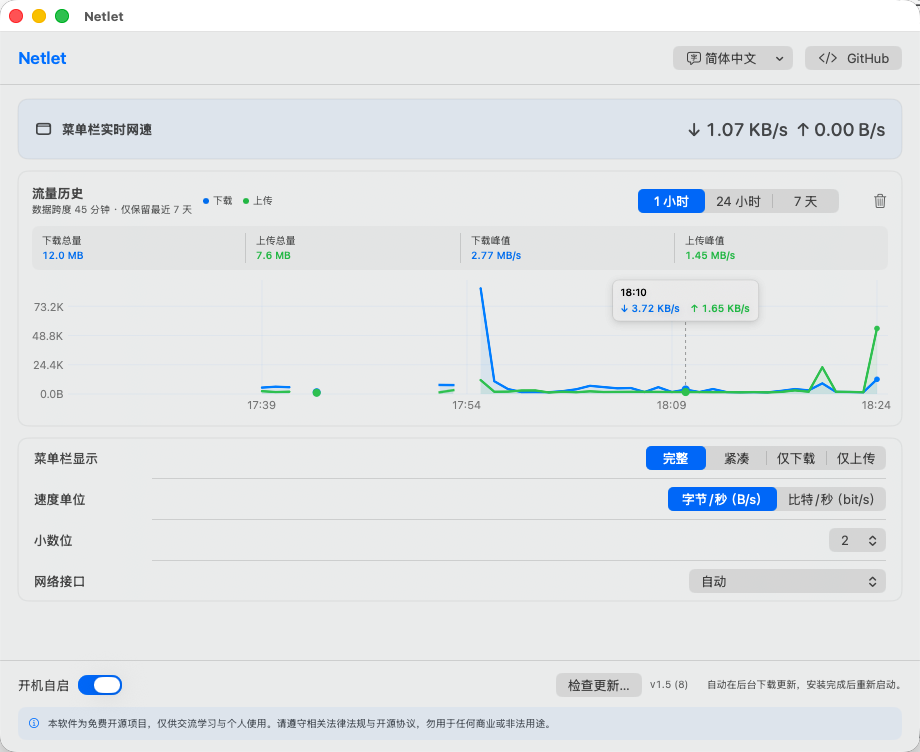
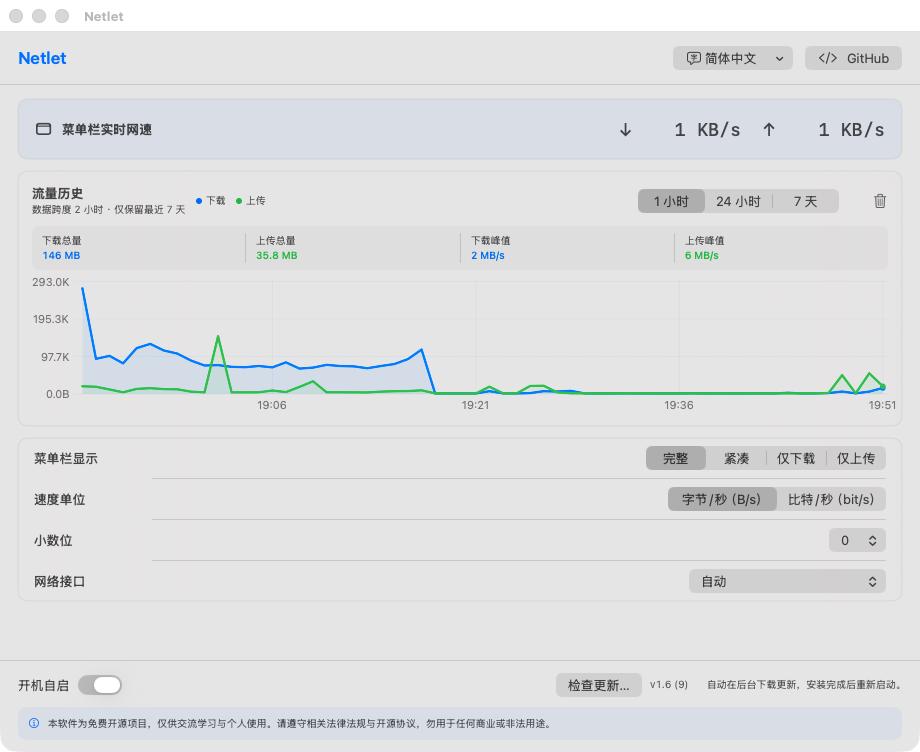
Stabilize Netlet menu bar layout

diff --git a/docs/index.html b/docs/index.html
@@ -10,8 +10,8 @@
   <meta property="og:description" content="在菜单栏查看实时网速与最近 1 小时趋势，在主界面回看最近 7 天流量。">
   <meta property="og:image" content="assets/app-icon.png">
   <title>Netlet — 实时网速，一眼即知</title>
-  <link rel="icon" href="assets/app-icon.png?v=1.5" type="image/png">
-  <link rel="apple-touch-icon" href="assets/app-icon.png?v=1.5">
+  <link rel="icon" href="assets/app-icon.png?v=1.6" type="image/png">
+  <link rel="apple-touch-icon" href="assets/app-icon.png?v=1.6">
   <link rel="stylesheet" href="styles.css">
 </head>
 <body>
@@ -35,11 +35,11 @@
         <h1 id="hero-title">实时网速，<br><em>一眼即知。</em></h1>
         <p class="hero-lead">在菜单栏直接查看上传与下载速度，随手回看最近 1 小时趋势；主界面保留最近 7 天历史。简单、轻量、完全本地运行。</p>
         <div class="hero-actions">
-          <a class="button button-primary" href="https://github.com/hjingsuper/Netlet/releases/download/v1.5/Netlet-v1.5-Apple-Silicon.dmg">下载 Apple 芯片版</a>
+          <a class="button button-primary" href="https://github.com/hjingsuper/Netlet/releases/download/v1.6/Netlet-v1.6-Apple-Silicon.dmg">下载 Apple 芯片版</a>
           <a class="button button-secondary" href="https://github.com/hjingsuper/Netlet">查看源代码</a>
         </div>
         <div class="hero-meta" aria-label="版本与系统要求">
-          <span>v1.5</span>
+          <span>v1.6</span>
           <span>macOS 14+</span>
           <span>Apple Silicon</span>
           <span>免费开源</span>
@@ -83,7 +83,7 @@
           <div class="feature-copy">
             <span class="feature-index">01</span>
             <h3>下载与上传，每秒可见</h3>
-            <p>直接留在菜单栏，不需要打开窗口。完整、紧凑、仅下载、仅上传四种显示方式，按你的桌面空间选择。</p>
+            <p>直接留在菜单栏，不需要打开窗口。完整、紧凑、仅下载、仅上传四种显示方式；固定宽度与对齐槽位让数值更新时不再左右跳动。</p>
           </div>
           <div class="traffic-visual" aria-hidden="true">
             <div class="traffic-label download"><span>↓</span><strong>3.01</strong><small>KB/s</small></div>
@@ -144,7 +144,7 @@
         <p>原生 SwiftUI 界面，把实时速度、历史趋势和显示设置放在一个窗口里。调整单位、样式或网络接口后，变化立即同步到菜单栏。</p>
       </div>
       <figure class="settings-stage">
-        <img src="assets/netlet-settings.png" alt="Netlet v1.5 主界面，显示筛选统计、流量折线和鼠标悬停读数" width="920" height="752">
+        <img src="assets/netlet-settings.png" alt="Netlet v1.6 主界面，显示筛选统计、流量折线和鼠标悬停读数" width="920" height="752">
       </figure>
     </section>
 
@@ -156,7 +156,7 @@
       </div>
 
       <ol class="install-steps">
-        <li><span class="step-number">01</span><div><h3>下载 DMG</h3><p>下载适用于 Apple Silicon 的 Netlet v1.5。</p></div></li>
+        <li><span class="step-number">01</span><div><h3>下载 DMG</h3><p>下载适用于 Apple Silicon 的 Netlet v1.6。</p></div></li>
         <li><span class="step-number">02</span><div><h3>拖入“应用程序”</h3><p>打开 DMG，将 Netlet 拖到“应用程序”文件夹。</p></div></li>
         <li><span class="step-number">03</span><div><h3>允许首次打开</h3><p>若被系统阻止，在“隐私与安全性”中点击“仍要打开”。</p></div></li>
       </ol>
@@ -184,7 +184,7 @@
         <h2 id="open-title">免费、开放，<br>保持专注。</h2>
         <p>源代码公开于 GitHub。没有广告、订阅或隐藏服务，只有一个清楚可靠的菜单栏网速工具。</p>
         <div class="release-actions">
-          <a class="button button-light" href="https://github.com/hjingsuper/Netlet/releases/download/v1.5/Netlet-v1.5-Apple-Silicon.dmg">下载 v1.5</a>
+          <a class="button button-light" href="https://github.com/hjingsuper/Netlet/releases/download/v1.6/Netlet-v1.6-Apple-Silicon.dmg">下载 v1.6</a>
           <a class="text-link" href="https://github.com/hjingsuper/Netlet">在 GitHub 查看项目</a>
         </div>
       </div>

diff --git a/Sources/Netlet/Support/SpeedFormatter.swift b/Sources/Netlet/Support/SpeedFormatter.swift
@@ -1,6 +1,9 @@
 import Foundation
 
 enum SpeedFormatter {
+    private static let fullUnitWidth = 4
+    private static let compactUnitWidth = 2
+
     static func valueAndUnit(
         bytesPerSecond: Double,
         unitMode: SpeedUnitMode,
@@ -82,6 +85,72 @@ enum SpeedFormatter {
         }
     }
 
+    /// Produces a title whose character count stays constant for a given
+    /// display style and decimal precision. The status item uses a monospaced
+    /// font, so fixed value/unit slots keep both neighbouring menu bar items
+    /// and the download/upload columns visually stationary.
+    static func stableStatusTitle(
+        snapshot: NetworkSpeedSnapshot,
+        style: MenuDisplayStyle,
+        unitMode: SpeedUnitMode,
+        decimalPlaces: DecimalPlaces,
+        scalePair: SpeedScalePair? = nil
+    ) -> String {
+        let compact = style == .compact
+        let valueWidth = decimalPlaces.rawValue == 0
+            ? 4
+            : 5 + decimalPlaces.rawValue
+        let unitWidth = compact ? compactUnitWidth : fullUnitWidth
+
+        let download: (value: String, unit: String)
+        let upload: (value: String, unit: String)
+        if snapshot.state == .connected {
+            download = valueAndUnit(
+                bytesPerSecond: snapshot.downloadBytesPerSecond,
+                unitMode: unitMode,
+                decimalPlaces: decimalPlaces,
+                compact: compact,
+                scaleIndex: scalePair?.downloadIndex
+            )
+            upload = valueAndUnit(
+                bytesPerSecond: snapshot.uploadBytesPerSecond,
+                unitMode: unitMode,
+                decimalPlaces: decimalPlaces,
+                compact: compact,
+                scaleIndex: scalePair?.uploadIndex
+            )
+        } else {
+            download = ("—", "")
+            upload = ("—", "")
+        }
+
+        let downloadText = stableDirectionText(
+            arrow: "↓",
+            value: download.value,
+            unit: download.unit,
+            valueWidth: valueWidth,
+            unitWidth: unitWidth,
+            compact: compact
+        )
+        let uploadText = stableDirectionText(
+            arrow: "↑",
+            value: upload.value,
+            unit: upload.unit,
+            valueWidth: valueWidth,
+            unitWidth: unitWidth,
+            compact: compact
+        )
+
+        switch style {
+        case .full, .compact:
+            return "\(downloadText)  \(uploadText)"
+        case .downloadOnly:
+            return downloadText
+        case .uploadOnly:
+            return uploadText
+        }
+    }
+
     static func dataSize(bytes: UInt64) -> String {
         let units = ["B", "KB", "MB", "GB", "TB"]
         var value = Double(bytes)
@@ -117,5 +186,28 @@ enum SpeedFormatter {
             index = automaticIndex
         }
         return (scaled, units[index])
+    }
+
+    private static func stableDirectionText(
+        arrow: String,
+        value: String,
+        unit: String,
+        valueWidth: Int,
+        unitWidth: Int,
+        compact: Bool
+    ) -> String {
+        let paddedValue = leftPadding(value, to: valueWidth)
+        let paddedUnit = rightPadding(unit, to: unitWidth)
+        return compact
+            ? "\(arrow)\(paddedValue)\(paddedUnit)"
+            : "\(arrow) \(paddedValue) \(paddedUnit)"
+    }
+
+    private static func leftPadding(_ value: String, to width: Int) -> String {
+        String(repeating: "\u{2007}", count: max(0, width - value.count)) + value
+    }
+
+    private static func rightPadding(_ value: String, to width: Int) -> String {
+        value + String(repeating: "\u{2007}", count: max(0, width - value.count))
     }
 }

diff --git a/Sources/Netlet/Services/StatusBarController.swift b/Sources/Netlet/Services/StatusBarController.swift
@@ -37,6 +37,8 @@ final class StatusBarController: NSObject, NSMenuDelegate {
     private let checkForUpdates: () -> Void
     private let menu = NSMenu()
     private var statusItem: NSStatusItem?
+    private static let statusFont = NSFont.monospacedSystemFont(ofSize: 12, weight: .regular)
+    private static let statusHorizontalPadding: CGFloat = 10
     private let logger = Logger(
         subsystem: Bundle.main.bundleIdentifier ?? "com.hjingsuper.Netlet",
         category: "MenuBar"
@@ -47,6 +49,7 @@ final class StatusBarController: NSObject, NSMenuDelegate {
     }
 
     func preferencesDidChange() {
+        updateStatusLayout()
         updateStatusTitle()
         rebuildMenu()
     }
@@ -68,12 +71,18 @@ final class StatusBarController: NSObject, NSMenuDelegate {
 
     private func installStatusItem() {
         guard statusItem == nil else { return }
-        let item = NSStatusBar.system.statusItem(withLength: NSStatusItem.variableLength)
+        let item = NSStatusBar.system.statusItem(withLength: preferredStatusItemLength)
         item.autosaveName = "com.hjingsuper.Netlet.primary-status-item"
-        item.button?.font = NSFont.monospacedDigitSystemFont(ofSize: 12, weight: .regular)
+        item.button?.font = Self.statusFont
+        item.button?.alignment = .center
         item.button?.image = nil
         item.button?.imagePosition = .noImage
-        item.button?.title = "↓ —  ↑ —"
+        item.button?.title = SpeedFormatter.stableStatusTitle(
+            snapshot: .initial,
+            style: preferences.menuDisplayStyle,
+            unitMode: preferences.speedUnitMode,
+            decimalPlaces: preferences.decimalPlaces
+        )
         item.button?.toolTip = "Netlet"
         item.menu = menu
         item.isVisible = true
@@ -85,7 +94,7 @@ final class StatusBarController: NSObject, NSMenuDelegate {
 
     private func updateStatusTitle() {
         guard let statusItem else { return }
-        statusItem.button?.title = SpeedFormatter.statusTitle(
+        statusItem.button?.title = SpeedFormatter.stableStatusTitle(
             snapshot: monitor.snapshot,
             style: preferences.menuDisplayStyle,
             unitMode: preferences.speedUnitMode,
@@ -94,6 +103,23 @@ final class StatusBarController: NSObject, NSMenuDelegate {
         )
         statusItem.button?.toolTip = interfaceDescription
         statusItem.isVisible = true
+    }
+
+    private func updateStatusLayout() {
+        statusItem?.length = preferredStatusItemLength
+    }
+
+    private var preferredStatusItemLength: CGFloat {
+        let placeholder = SpeedFormatter.stableStatusTitle(
+            snapshot: .initial,
+            style: preferences.menuDisplayStyle,
+            unitMode: preferences.speedUnitMode,
+            decimalPlaces: preferences.decimalPlaces
+        )
+        let textWidth = (placeholder as NSString).size(
+            withAttributes: [.font: Self.statusFont]
+        ).width
+        return ceil(textWidth + Self.statusHorizontalPadding)
     }
 
     private var interfaceDescription: String {

diff --git a/Tests/NetletTests/NetletTests.swift b/Tests/NetletTests/NetletTests.swift
@@ -185,6 +185,58 @@ final class NetletTests: XCTestCase {
         )
     }
 
+    func testStableStatusTitleKeepsFixedSlotsAcrossValuesUnitsAndConnectivity() {
+        let lowRate = NetworkSpeedSnapshot(
+            downloadBytesPerSecond: 10_229,
+            uploadBytesPerSecond: 999,
+            interfaceName: "en0",
+            state: .connected,
+            sampledAt: .now
+        )
+        let highRate = NetworkSpeedSnapshot(
+            downloadBytesPerSecond: 1_572_864,
+            uploadBytesPerSecond: 131_072,
+            interfaceName: "en0",
+            state: .connected,
+            sampledAt: .now
+        )
+
+        for style in MenuDisplayStyle.allCases {
+            for unitMode in SpeedUnitMode.allCases {
+                for decimalPlaces in DecimalPlaces.allCases {
+                    let titles = [
+                        SpeedFormatter.stableStatusTitle(
+                            snapshot: lowRate,
+                            style: style,
+                            unitMode: unitMode,
+                            decimalPlaces: decimalPlaces,
+                            scalePair: SpeedScalePair(downloadIndex: 1, uploadIndex: 0)
+                        ),
+                        SpeedFormatter.stableStatusTitle(
+                            snapshot: highRate,
+                            style: style,
+                            unitMode: unitMode,
+                            decimalPlaces: decimalPlaces,
+                            scalePair: SpeedScalePair(downloadIndex: 2, uploadIndex: 1)
+                        ),
+                        SpeedFormatter.stableStatusTitle(
+                            snapshot: .initial,
+                            style: style,
+                            unitMode: unitMode,
+                            decimalPlaces: decimalPlaces
+                        )
+                    ]
+
+                    XCTAssertEqual(
+                        Set(titles.map(\.count)).count,
+                        1,
+                        "Status title width changed for \(style), \(unitMode), \(decimalPlaces)"
+                    )
+                }
+            }
+        }
+    }
+
     func testInterfaceSelectionRoundTrips() {
         XCTAssertEqual(InterfaceSelection(persistedValue: nil), .automatic)
         XCTAssertEqual(InterfaceSelection(persistedValue: "automatic"), .automatic)

diff --git a/Sources/Netlet/Views/SettingsView.swift b/Sources/Netlet/Views/SettingsView.swift
@@ -76,7 +76,7 @@ struct SettingsView: View {
             Spacer(minLength: 20)
 
             Text(
-                SpeedFormatter.statusTitle(
+                SpeedFormatter.stableStatusTitle(
                     snapshot: monitor.snapshot,
                     style: preferences.menuDisplayStyle,
                     unitMode: preferences.speedUnitMode,
@@ -84,8 +84,7 @@ struct SettingsView: View {
                     scalePair: monitor.scalePair(for: preferences.speedUnitMode)
                 )
             )
-            .font(.system(size: 18, weight: .medium, design: .rounded))
-            .monospacedDigit()
+            .font(.system(size: 18, weight: .medium, design: .monospaced))
             .lineLimit(1)
         }
         .padding(.horizontal, 16)

diff --git a/README.md b/README.md
@@ -7,7 +7,7 @@
 <p align="center"><strong>实时网速，一眼即知。</strong></p>
 
 <p align="center">
-  <img alt="version" src="https://img.shields.io/badge/version-v1.5-2f80ff">
+  <img alt="version" src="https://img.shields.io/badge/version-v1.6-2f80ff">
   <img alt="platform" src="https://img.shields.io/badge/platform-macOS%2014%2B-111827">
   <img alt="architecture" src="https://img.shields.io/badge/architecture-Apple%20Silicon-111827">
   <img alt="built with Swift" src="https://img.shields.io/badge/built%20with-Swift-f05138">
@@ -16,7 +16,7 @@
 
 <p align="center">
   <a href="https://hjingsuper.github.io/Netlet/">官方网站</a> ·
-  <a href="https://github.com/hjingsuper/Netlet/releases/download/v1.5/Netlet-v1.5-Apple-Silicon.dmg">下载 DMG</a> ·
+  <a href="https://github.com/hjingsuper/Netlet/releases/download/v1.6/Netlet-v1.6-Apple-Silicon.dmg">下载 DMG</a> ·
   <a href="https://github.com/hjingsuper/Netlet/releases">版本记录</a>
 </p>
 
@@ -33,6 +33,7 @@ Netlet 是一款纯本地、单功能的 macOS 菜单栏实时网速工具。它
 ## 功能
 
 - 菜单栏实时显示下载与上传速度
+- 菜单栏采用固定宽度与对齐槽位，实时数值和单位变化时不再左右跳动
 - 完整、紧凑、仅下载、仅上传四种样式
 - 字节/秒与比特/秒单位，可选择 0–2 位小数
 - 单位自动换算，并通过切换迟滞避免在临界网速附近反复跳动
